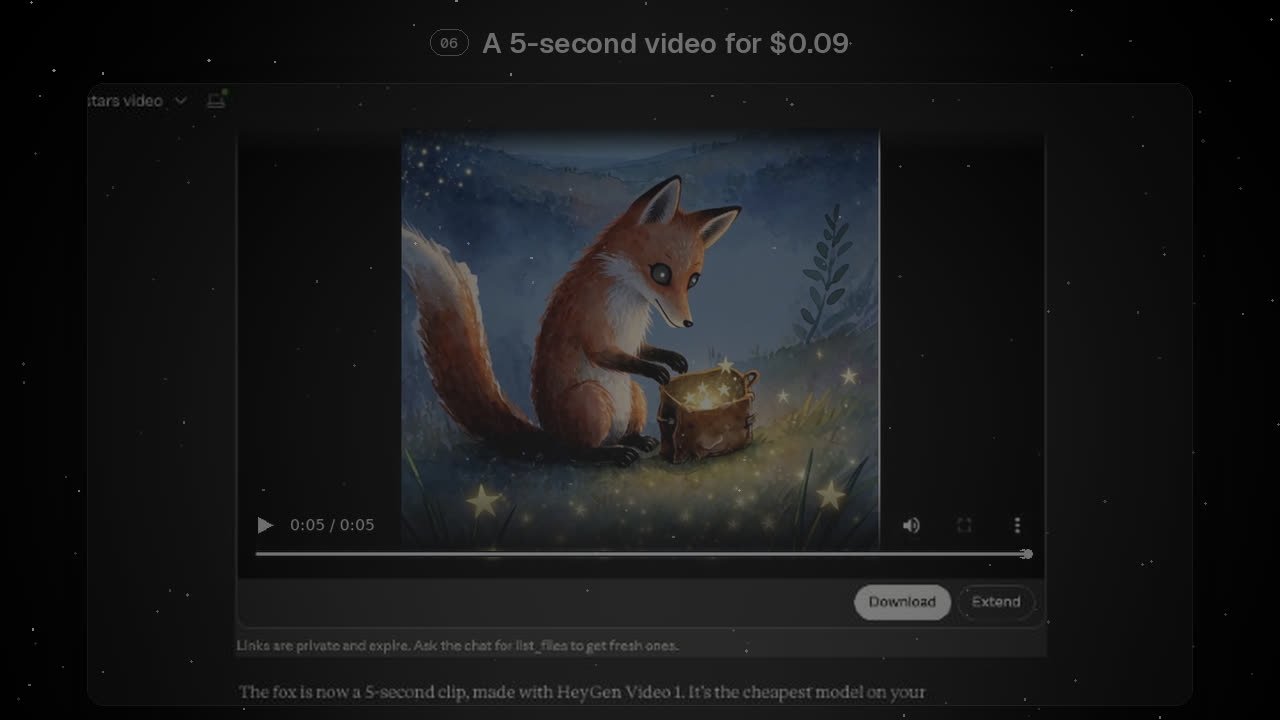
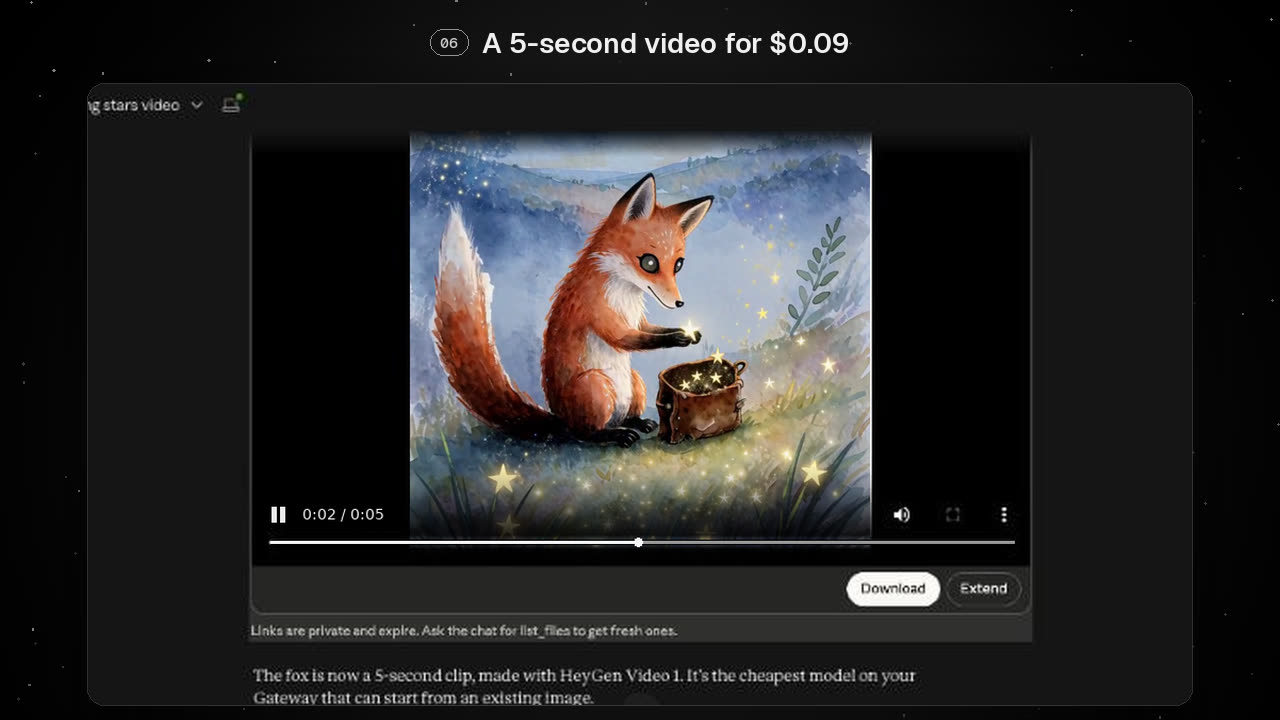
Open the demo with the landing site's eclipse (#6)
DEMO_MODE now opens on the landing's eclipse and headline ("Every AI
model. No extra fees.") with Deploy your own and Read the story, the
eclipse sinking away as the page scrolls; the real-chat clip follows.
The clip's poster is now a frame of the video playing.

Claude-Session: https://claude.ai/code/session_01SsVsWJSD4DsyqRE2mPKEwc

Changed region(s): [[0.1875, 0.1833, 0.8125, 0.9778], [0.3438, 0.0306, 0.6562, 0.0917], [0.0625, 0.1222, 0.1875, 0.1833]]

diff --git a/components/demo-hero.tsx b/components/demo-hero.tsx
@@ -1,0 +1,58 @@
+'use client';
+
+import { useEffect } from 'react';
+import { DEPLOY_URL, LANDING_URL } from '@/lib/site';
+import { cosmos } from './cosmos/store';
+import { VercelMark } from './vercel-badge';
+
+/**
+ * The public demo's opening (DEMO_MODE), borrowed from the project's landing
+ * site: the eclipse over the starfield and its headline, then the two ways
+ * on: deploy a copy, or read the whole story. The eclipse sinks away as the
+ * page scrolls. Without WebGL the text stands on the plain sky.
+ */
+export function DemoHero() {
+  useEffect(() => {
+    const reduce = window.matchMedia('(prefers-reduced-motion: reduce)').matches;
+    const place = () => {
+      // Keep the disk clear of the headline: smaller and higher on narrow screens.
+      const narrow = window.innerWidth < 760;
+      const k = Math.min(1, window.scrollY / (window.innerHeight * 0.85));
+      cosmos.eclipse = 1 - k;
+      cosmos.eclipseScale = narrow ? 0.56 : 0.8;
+      cosmos.eclipseY = (narrow ? 0.33 : 0.25) + (reduce ? 0 : k * 0.2);
+    };
+    place();
+    window.addEventListener('scroll', place, { passive: true });
+    window.addEventListener('resize', place);
+    return () => {
+      window.removeEventListener('scroll', place);
+      window.removeEventListener('resize', place);
+      cosmos.eclipse = 0;
+    };
+  }, []);
+
+  return (
+    <section className="demo-hero" id="overview" data-chapter="overview">
+      <h1 className="demo-hero-title">
+        Every AI model.
+        <br />
+        <span>No extra fees.</span>
+      </h1>
+      <p className="demo-hero-lede">Make pictures and video right inside Claude or ChatGPT. Pay the model’s own price on AI Gateway. Nothing more.</p>
+      <div className="demo-hero-actions">
+        <a className="btn btn-primary" href={DEPLOY_URL} target="_blank" rel="noopener noreferrer">
+          <VercelMark />
+          Deploy your own
+          <span className="sr-only"> (opens Vercel in a new tab)</span>
+        </a>
+        <a className="btn btn-ghost" href={LANDING_URL}>
+          Read the story
+        </a>
+      </div>
+      <a className="demo-hero-cue" href="#in-chat">
+        See it in a real chat
+      </a>
+    </section>
+  );
+}

diff --git a/components/setup/setup.tsx b/components/setup/setup.tsx
@@ -4,6 +4,7 @@ import type { ServerStep, StepId } from '@/lib/status';
 import { CosmosCanvas } from '../cosmos/cosmos-canvas';
 import { DemoBanner } from '../demo-banner';
 import { DemoClip } from '../demo-clip';
+import { DemoHero } from '../demo-hero';
 import { StarDefs } from '../motion/star-defs';
 import { OrbitNav } from '../orbit/orbit-nav';
 import { SiteNav } from '../site-nav';
@@ -61,8 +62,8 @@ export function Setup({ steps, open, guide, linkTtlHours, links }: { steps: Serv
   const agent = isDone('blob') && isDone('secret') ? undefined : { blobDone: isDone('blob'), secretSet: isDone('secret'), links };
   // With the gateway open the guide is gone (unless asked for with ?steps), and so are its stars on the rail.
   const chapters = [
-    // The open intro replaces the overview: the page starts at usage.
-    ...(guide ? [{ id: 'overview', label: 'Overview' }] : []),
+    // The open intro replaces the overview: the page starts at usage. The demo opens on its own hero.
+    ...(guide ? [{ id: 'overview', label: 'Overview' }] : demo ? [{ id: 'overview', label: 'Intro' }] : []),
     ...(!guide ? [] : steps.map((step) => ({ id: step.id, label: RAIL_LABELS[step.id], done: step.state === 'done' }))),
     // The public demo opens with a real chat recording.
     ...(demo ? [{ id: 'in-chat', label: 'In chat' }] : []),
@@ -93,6 +94,8 @@ export function Setup({ steps, open, guide, linkTtlHours, links }: { steps: Serv
           <section className="setup-hero" id="overview" data-chapter="overview">
             <Progress steps={views} settled={open} guide={guide} agent={agent} />
           </section>
+        ) : demo ? (
+          <DemoHero />
         ) : (
           <OpenIntro steps={views} />
         )}

diff --git a/app/globals.css b/app/globals.css
@@ -3126,3 +3126,66 @@ html:has(.setup)::-webkit-scrollbar {
   color: var(--dim);
   font-size: 0.8125rem;
 }
+
+/* Public demo: the opening borrowed from the landing site (demo-hero.tsx).
+   The eclipse is drawn by the cosmos canvas above the text. */
+.demo-hero {
+  position: relative;
+  min-height: 100svh;
+  display: flex;
+  flex-direction: column;
+  align-items: center;
+  justify-content: flex-end;
+  padding: 0 0 clamp(72px, 13vh, 132px);
+  text-align: center;
+}
+
+.demo-hero-title {
+  font-size: clamp(2.75rem, 1.2rem + 5vw, 5.75rem);
+  font-weight: 600;
+  line-height: 1;
+  letter-spacing: -0.05em;
+}
+
+.demo-hero-title span {
+  color: var(--muted);
+}
+
+.demo-hero-lede {
+  max-width: 34rem;
+  margin-top: 24px;
+  color: var(--muted);
+  font-size: 1.0625rem;
+  line-height: 1.6;
+}
+
+.demo-hero-actions {
+  display: flex;
+  flex-wrap: wrap;
+  justify-content: center;
+  gap: 12px;
+  margin-top: 32px;
+}
+
+.demo-hero-cue {
+  margin-top: 40px;
+  color: var(--dim);
+  font-family: var(--font-mono), monospace;
+  font-size: 0.75rem;
+  letter-spacing: 0.12em;
+  text-transform: uppercase;
+  text-decoration: none;
+}
+
+.demo-hero-cue::after {
+  content: '';
+  display: block;
+  width: 1px;
+  height: 36px;
+  margin: 12px auto 0;
+  background: linear-gradient(var(--line-strong), transparent);
+}
+
+.demo-clip-section {
+  margin-top: clamp(48px, 8vh, 96px);
+}

diff --git a/components/demo-clip.tsx b/components/demo-clip.tsx
@@ -29,7 +29,7 @@ export function DemoClip() {
   }, []);
 
   return (
-    <section className="setup-section is-first" id="in-chat" data-chapter="in-chat">
+    <section className="setup-section demo-clip-section" id="in-chat" data-chapter="in-chat">
       <h2 className="section-title">In your chat</h2>
       <p className="demo-clip-lede">
         Ask in plain words. Claude picks the cheapest model on AI Gateway, makes the picture, then turns it into a video: <b>$0.007</b> for the picture,

diff --git a/CLAUDE.md b/CLAUDE.md
@@ -37,7 +37,7 @@ Two repos:
 - **This repo** is the app people deploy: the MCP server plus its setup page at `/` (`/setup` redirects there).
 - **`armulee/ai-gateway-mcp-landing`** is the project's own website (black-and-white scrollytelling story). Its buttons open Vercel's clone flow for this repo directly; it has no setup or secret pages of its own. The waitlist for the hosted version belongs there; its storage is not decided yet: ask before choosing.
 
-Public demo (for the Vercel Templates listing): a separate deployment of this repo with `DEMO_MODE=1` (`lib/demo.ts`, copied to the client by `next.config.ts`). The page opens as if setup were done, usage shows `components/setup/sample-stats.ts` (models and apps split the same total as the days), a white pill (`components/demo-banner.tsx`) says the numbers are samples and links to the Deploy button, and the phone button is hidden. It opens with "In your chat" (`components/demo-clip.tsx`): a recording of a real claude.ai chat (`public/demo/in-claude.mp4`, poster `in-claude.jpg`; the README shows the same clip as `docs/readme/in-claude.webp`), muted and looping, paused under reduced motion. `matchesSecret` refuses every secret in demo mode, so `/mcp` and `/api/stats` answer 404 whatever is set.
+Public demo (for the Vercel Templates listing): a separate deployment of this repo with `DEMO_MODE=1` (`lib/demo.ts`, copied to the client by `next.config.ts`). The page opens as if setup were done, usage shows `components/setup/sample-stats.ts` (models and apps split the same total as the days), a white pill (`components/demo-banner.tsx`) says the numbers are samples and links to the Deploy button, and the phone button is hidden. It opens with the landing site's eclipse and headline (`components/demo-hero.tsx`, which sets the cosmos `eclipse` and sinks it on scroll; buttons: Deploy your own, Read the story), then "In your chat" (`components/demo-clip.tsx`): a recording of a real claude.ai chat (`public/demo/in-claude.mp4`, poster `in-claude.jpg`; the README shows the same clip as `docs/readme/in-claude.webp`), muted and looping, paused under reduced motion. `matchesSecret` refuses every secret in demo mode, so `/mcp` and `/api/stats` answer 404 whatever is set.
 
 Setup page at `/` (every self-hoster lands here on their own deployment):
 - A guide in steps, each with a code-drawn motion graphic: deploy, AI Gateway via OIDC, Blob (checked on the server), the secret (generated in the browser; its fingerprint goes to the project's Environment Variables), then test the link and add it to a chat app (confirmed in the owner's browser). Shows what is done and what is next.
